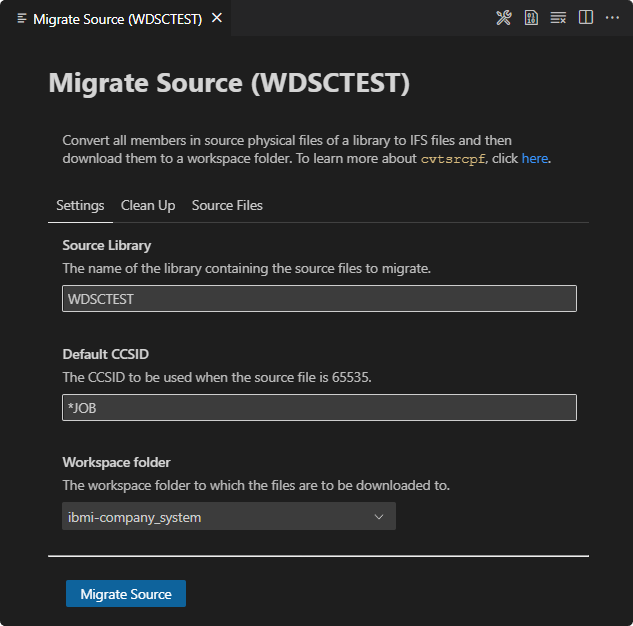
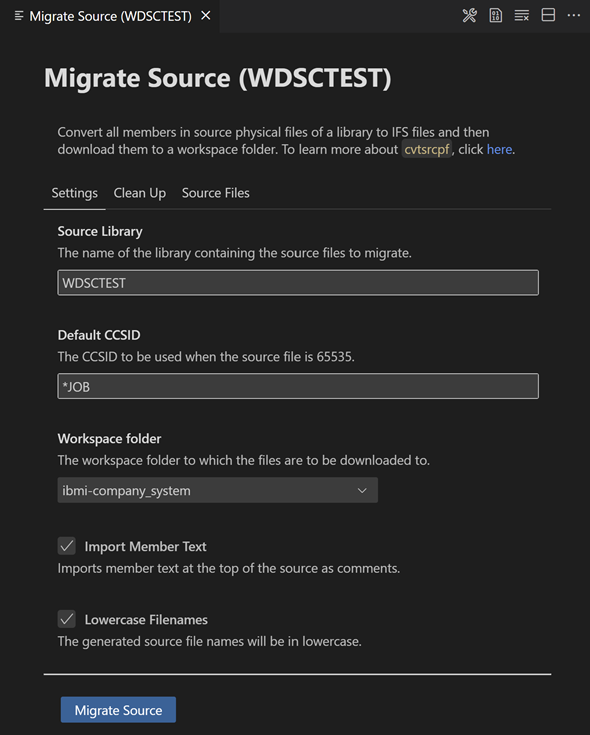
Update outdated migrate source images

diff --git a/docs/pages/projectExplorer/migrate-source.md b/docs/pages/projectExplorer/migrate-source.md
@@ -14,21 +14,21 @@ Now that your workspace folder is recognized as an IBM i project, browse for the
 
 ## Configure Settings
 
-This action will pop up a form in the editor for you to configure the migration process. Under the **Settings** tab, you can specify an optional CCSID value to be used when source physical file is 65535. If not specified, the `*JOB` CCSID will be used. You can also adjust the workspace folder to which the files are to be downloaded to.
+This action will pop up a form in the editor for you to configure the migration process. Under the **Settings** tab, you can specify an optional CCSID value to be used when the source physical file is 65535. If not specified, the `*JOB` CCSID will be used. You can also adjust the workspace folder to which the files are to be downloaded to. Lastly, you will also have options to import member text at the top of the source as comments as well as generate source file names in lowercase.
 
 ![Configure Settings for Migrate Source](../../assets/ProjectExplorer_38.png)
 
 ## Enable Clean Up
 
-As part of this source migration process, you can enable the use of another extension called **Source Orbit** to assist with cleaning up the migrated code. This extension offers the ability to automatically have the migrated source extensions corrected and include/copy directives fixed to use Unix style paths.
+As part of this source migration process, you can enable the use of another extension called [Source Orbit](https://marketplace.visualstudio.com/items?itemName=IBM.vscode-sourceorbit) to assist with cleaning up the migrated code. This extension offers the ability to automatically rename the migrated source to have the correct extensions required for most build tools, fix all include/copy directives to use Unix style paths instead of member styled paths, and generate the Rules.mk files used by [Bob](https://ibm.github.io/ibmi-bob/#/).
 
 ![Clean Up for Migrate Source](../../assets/ProjectExplorer_39.png)
 
 > [!NOTE]
 >
-> The use of these two clean up features requires the **Source Orbit** extension to be installed which can be done from the Visual Studio Code Marketplace: [Source Orbit]().
+> The use of these features requires the **Source Orbit** extension to be installed which can be done from the Visual Studio Code Marketplace: [Source Orbit](https://marketplace.visualstudio.com/items?itemName=IBM.vscode-sourceorbit).
 
-?> To learn more about this clean up process, check out the documentation on [Source Orbit](https://ibm.github.io/sourceorbit/#/).
+?> To learn more about this clean up process, check out the documentation on [Source Orbit](https://ibm.github.io/sourceorbit/#/./pages/cli/index?id=cleanup-capabilities).
 
 ## Select Source Files
 
